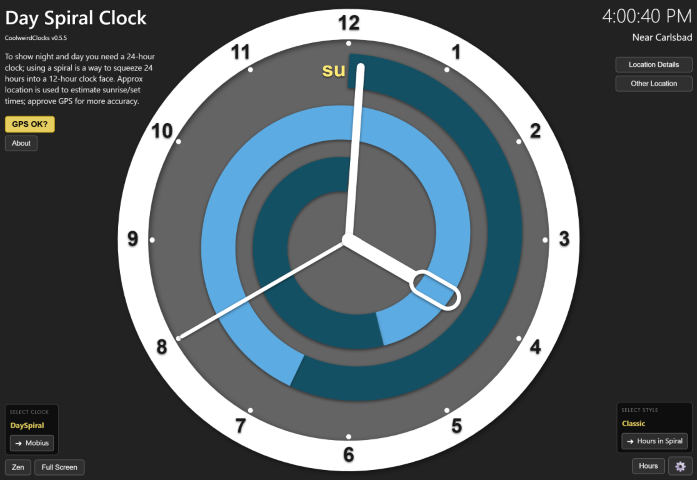
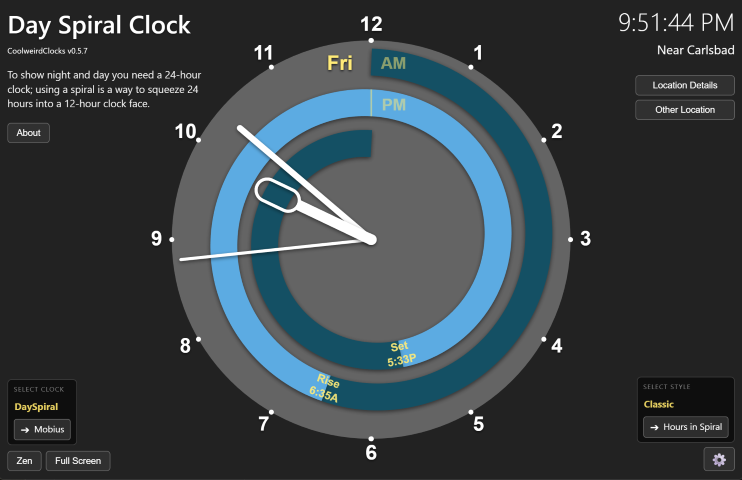
Updated readme and screenshots, bumped to v0.5.8

diff --git a/index.html b/index.html
@@ -16,8 +16,8 @@
   <meta charset="UTF-8">
   <meta name="viewport" content="width=device-width, initial-scale=1.0, user-scalable=yes">
   <title>CoolweirdClocks</title>
-  <link rel="stylesheet" href="style.css?v=0.5.7">
-  <link rel="stylesheet" href="modal-fixes.css?v=0.5.7">
+  <link rel="stylesheet" href="style.css?v=0.5.8">
+  <link rel="stylesheet" href="modal-fixes.css?v=0.5.8">
   <script src="https://cdnjs.cloudflare.com/ajax/libs/p5.js/1.4.0/p5.js"></script>
   <script src="https://cdnjs.cloudflare.com/ajax/libs/p5.js/1.4.0/addons/p5.sound.min.js"></script>
   <!-- Google tag (gtag.js) -->

diff --git a/sketch.js b/sketch.js
@@ -67,7 +67,7 @@ Future Enhancement Ideas ------------
 
 //======== GLOBALS ===================================
 // Name convention: global vars are capitalized
-const APP_VERSION = "v0.5.7 ©2026 Charlie Wallace";
+const APP_VERSION = "v0.5.8 ©2026 Charlie Wallace";
 
 console.log("📦 CoolweirdClocks loaded");
 var WebsiteLink;

diff --git a/README.md b/README.md
@@ -39,10 +39,12 @@ A unique visualization that shows you your whole day, including day and night, s
 
 **Specific URL Parameters:**
 - `daySpiralStyle=SpiralHours`: Activates the "Hours In Spiral" (HIS) visual style.
-- `daySpiralShowHours=1`: Displays hour labels on the spiral face (non-HIS modes).
 - `daySpiralTimeFormat=24`: Sets the DaySpiral to 24-hour time format.
 
 ### Mobius Clock
+
+![Mobius Clock](mobiusclock.png)
+
 A 12-hour clock face where time moves along a fully three-dimensional Mobius strip (a strip with a single edge and a single surface).  You can even make it rotate in 3D space!
 - **Hour shown on the edge**: The hour indicator moves along the edge of the strip, requiring two full loops to return to the start. Thus you have 24 hours shown on a 12-hour clock face.
 - **Minutes and seconds shown in the center**: Seconds and minutes move along the center line of the strip, thus only requiring one loop to complete.
@@ -57,7 +59,7 @@ A 12-hour clock face where time moves along a fully three-dimensional Mobius str
 - `demo=1`: Activates fast-motion demo mode.
 - `showHours=0`: Hides the hour number labels.
 - `dali=1`: Activates the "Dali" melting clock animation mode.
-- `dayNight=0`: Disables the day/night color coding.
+- `dayNight=1`: Enables the day/night color coding (off by default).
 
 ---
 
